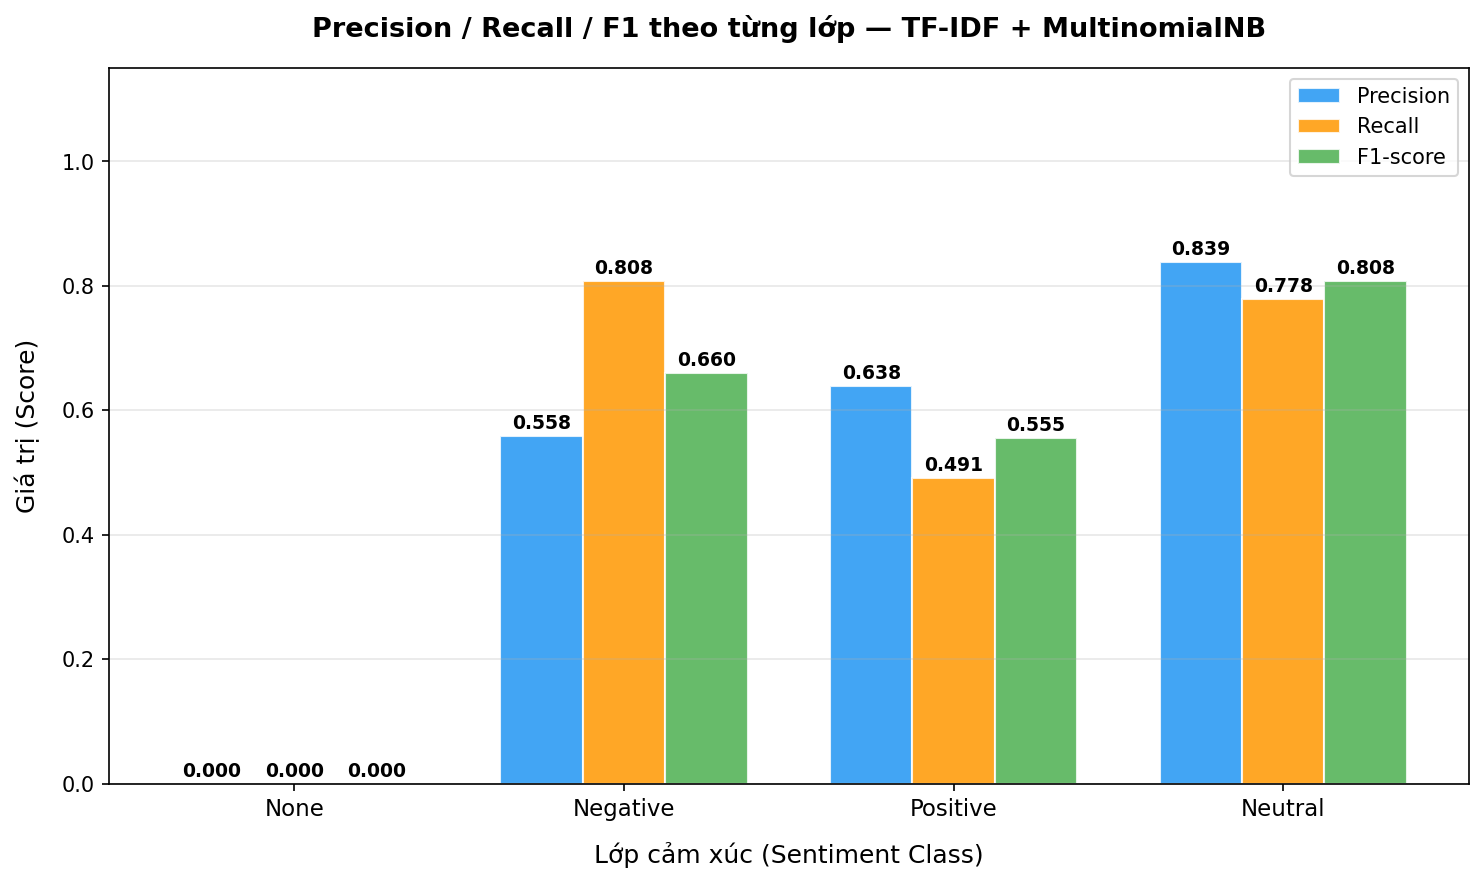
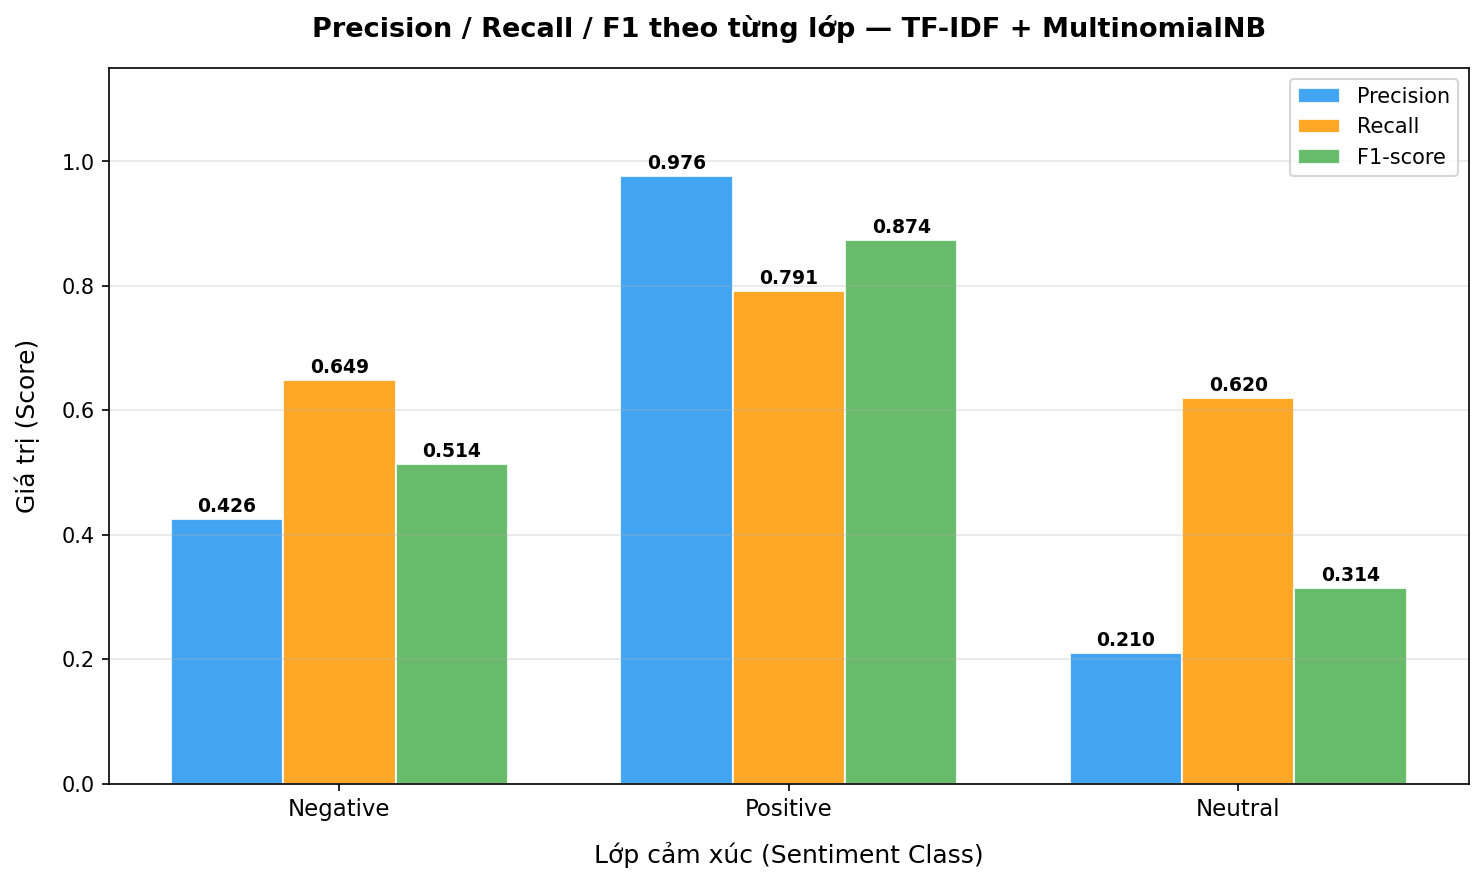
capnhat

diff --git a/Naive_bayes/Naive_Bayes_model.py b/Naive_bayes/Naive_Bayes_model.py
@@ -690,15 +690,16 @@ def main():
         save_path=os.path.join(MODEL_DIR, "metrics_comparison.png"),
     )
     
-    # Precision/Recall/F1 theo từng class cho mô hình tốt nhất
+    # Precision/Recall/F1 theo từng class cho TẤT CẢ các mô hình (ghi đè file cũ)
     best_result = max(all_results, key=lambda r: r["f1_score"])
     print(f"\n  🏆 Mô hình tốt nhất (F1): {best_result['model_name']} (F1 = {best_result['f1_score']:.4f})")
     
-    safe_best = best_result["model_name"].replace(" ", "_").replace("+", "plus")
-    plot_per_class_metrics(
-        best_result,
-        save_path=os.path.join(MODEL_DIR, f"per_class_metrics_{safe_best}.png"),
-    )
+    for r in all_results:
+        safe_name = r["model_name"].replace(" ", "_").replace("+", "plus")
+        plot_per_class_metrics(
+            r,
+            save_path=os.path.join(MODEL_DIR, f"per_class_metrics_{safe_name}.png"),
+        )
     
     # ── Bước 5: Lưu mô hình ──────────────────────────────────────────
     print(f"\n  ╔{'═' * W}╗")
